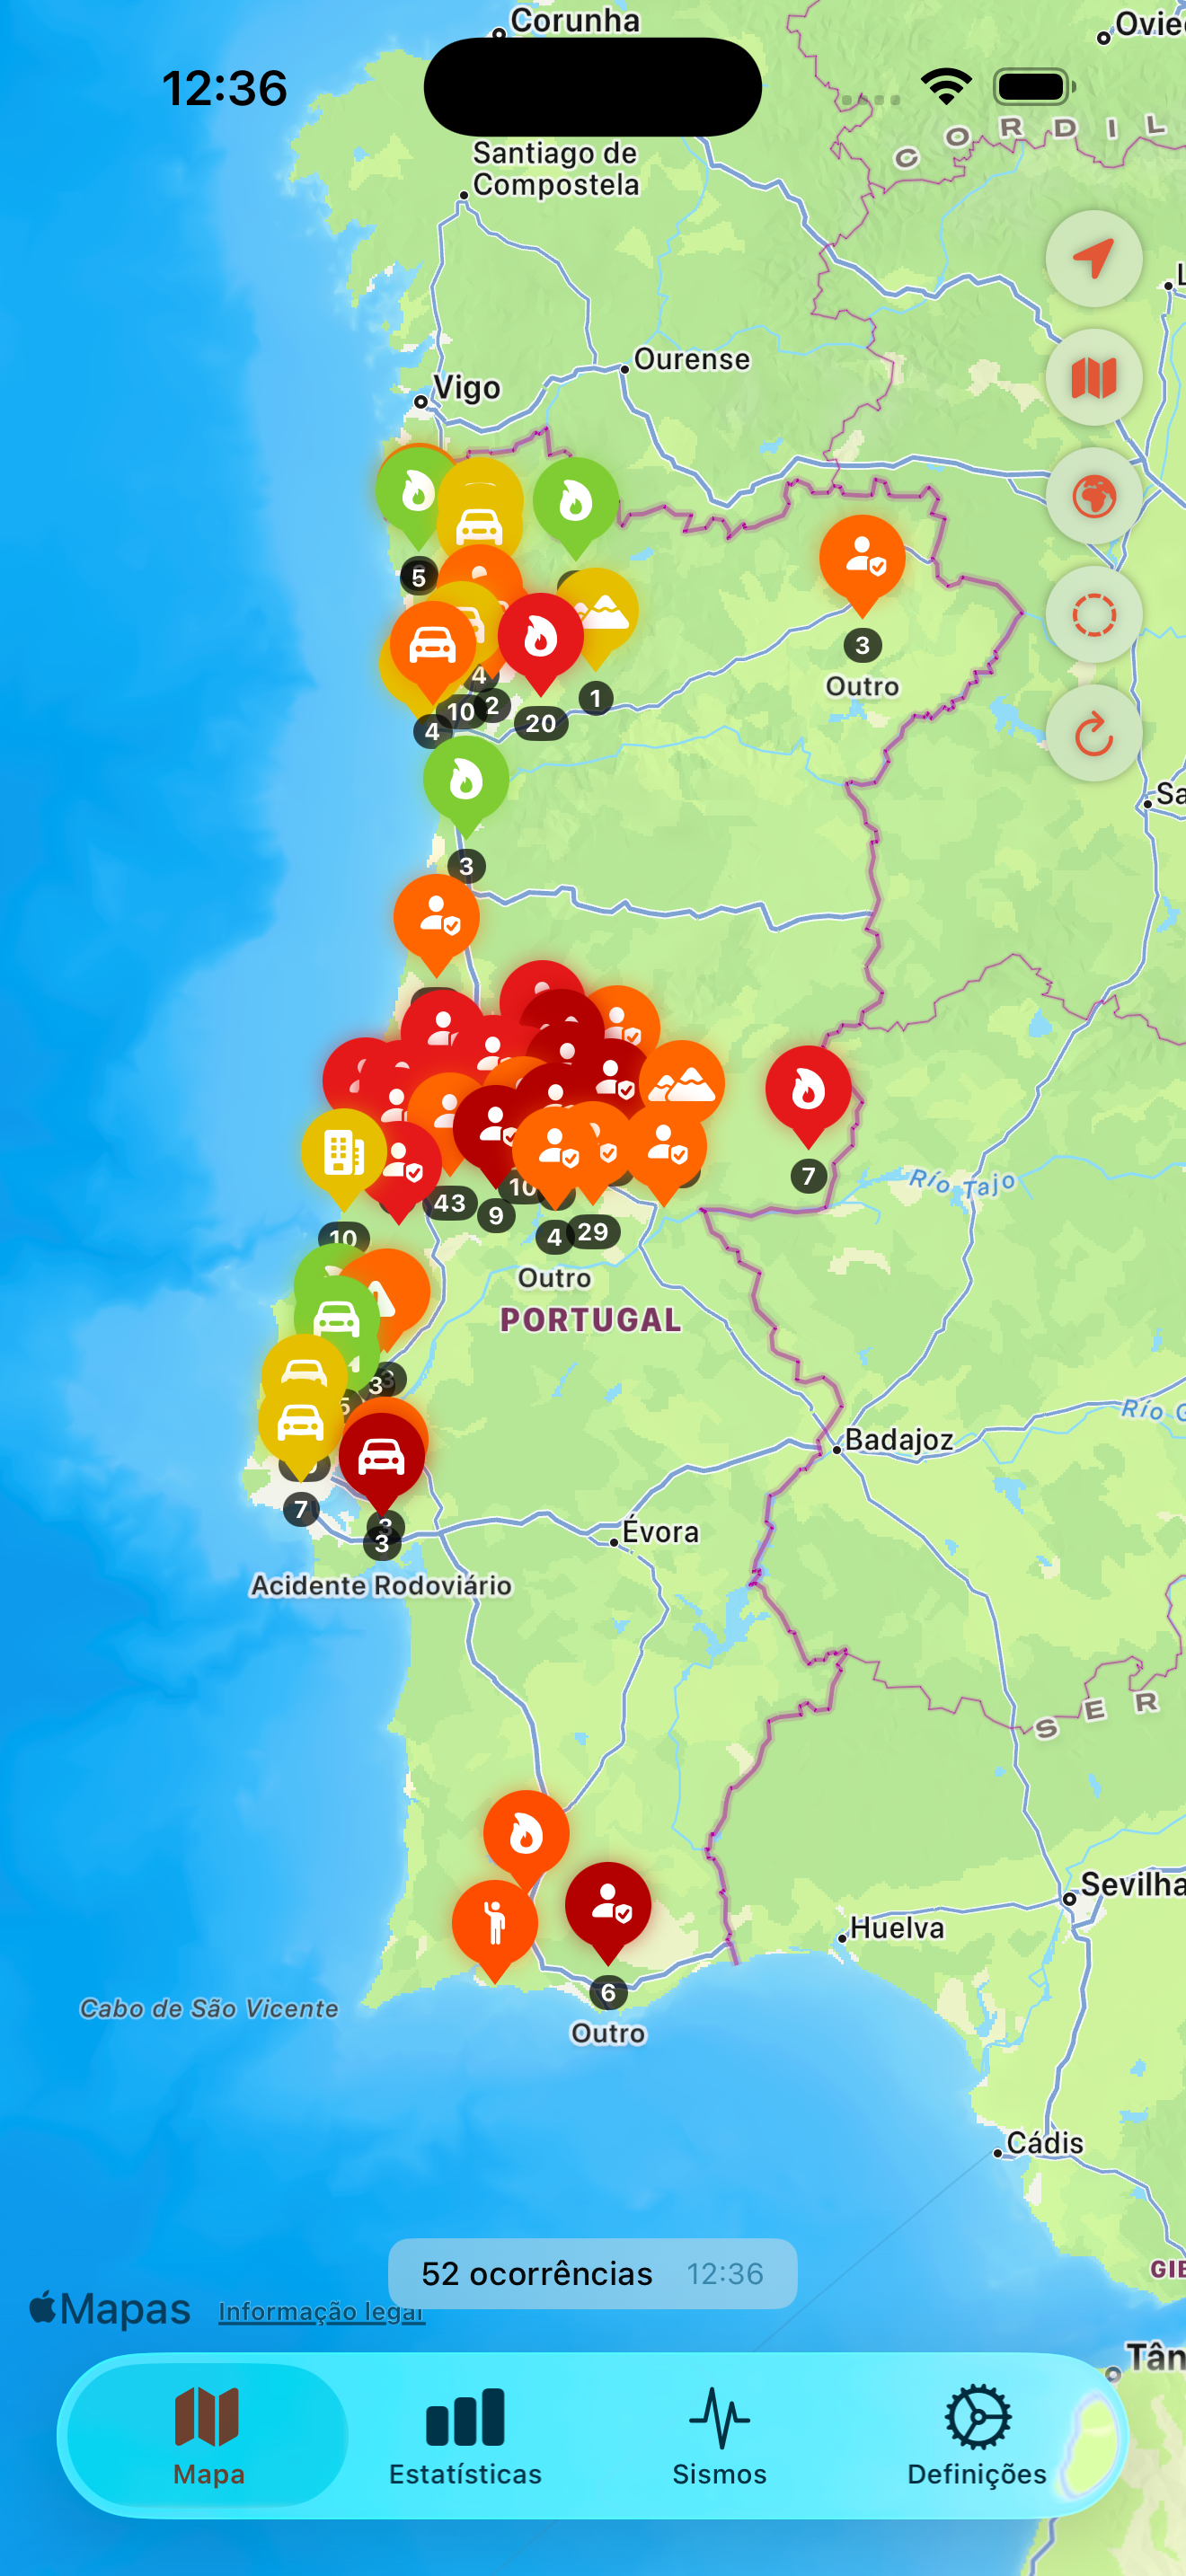
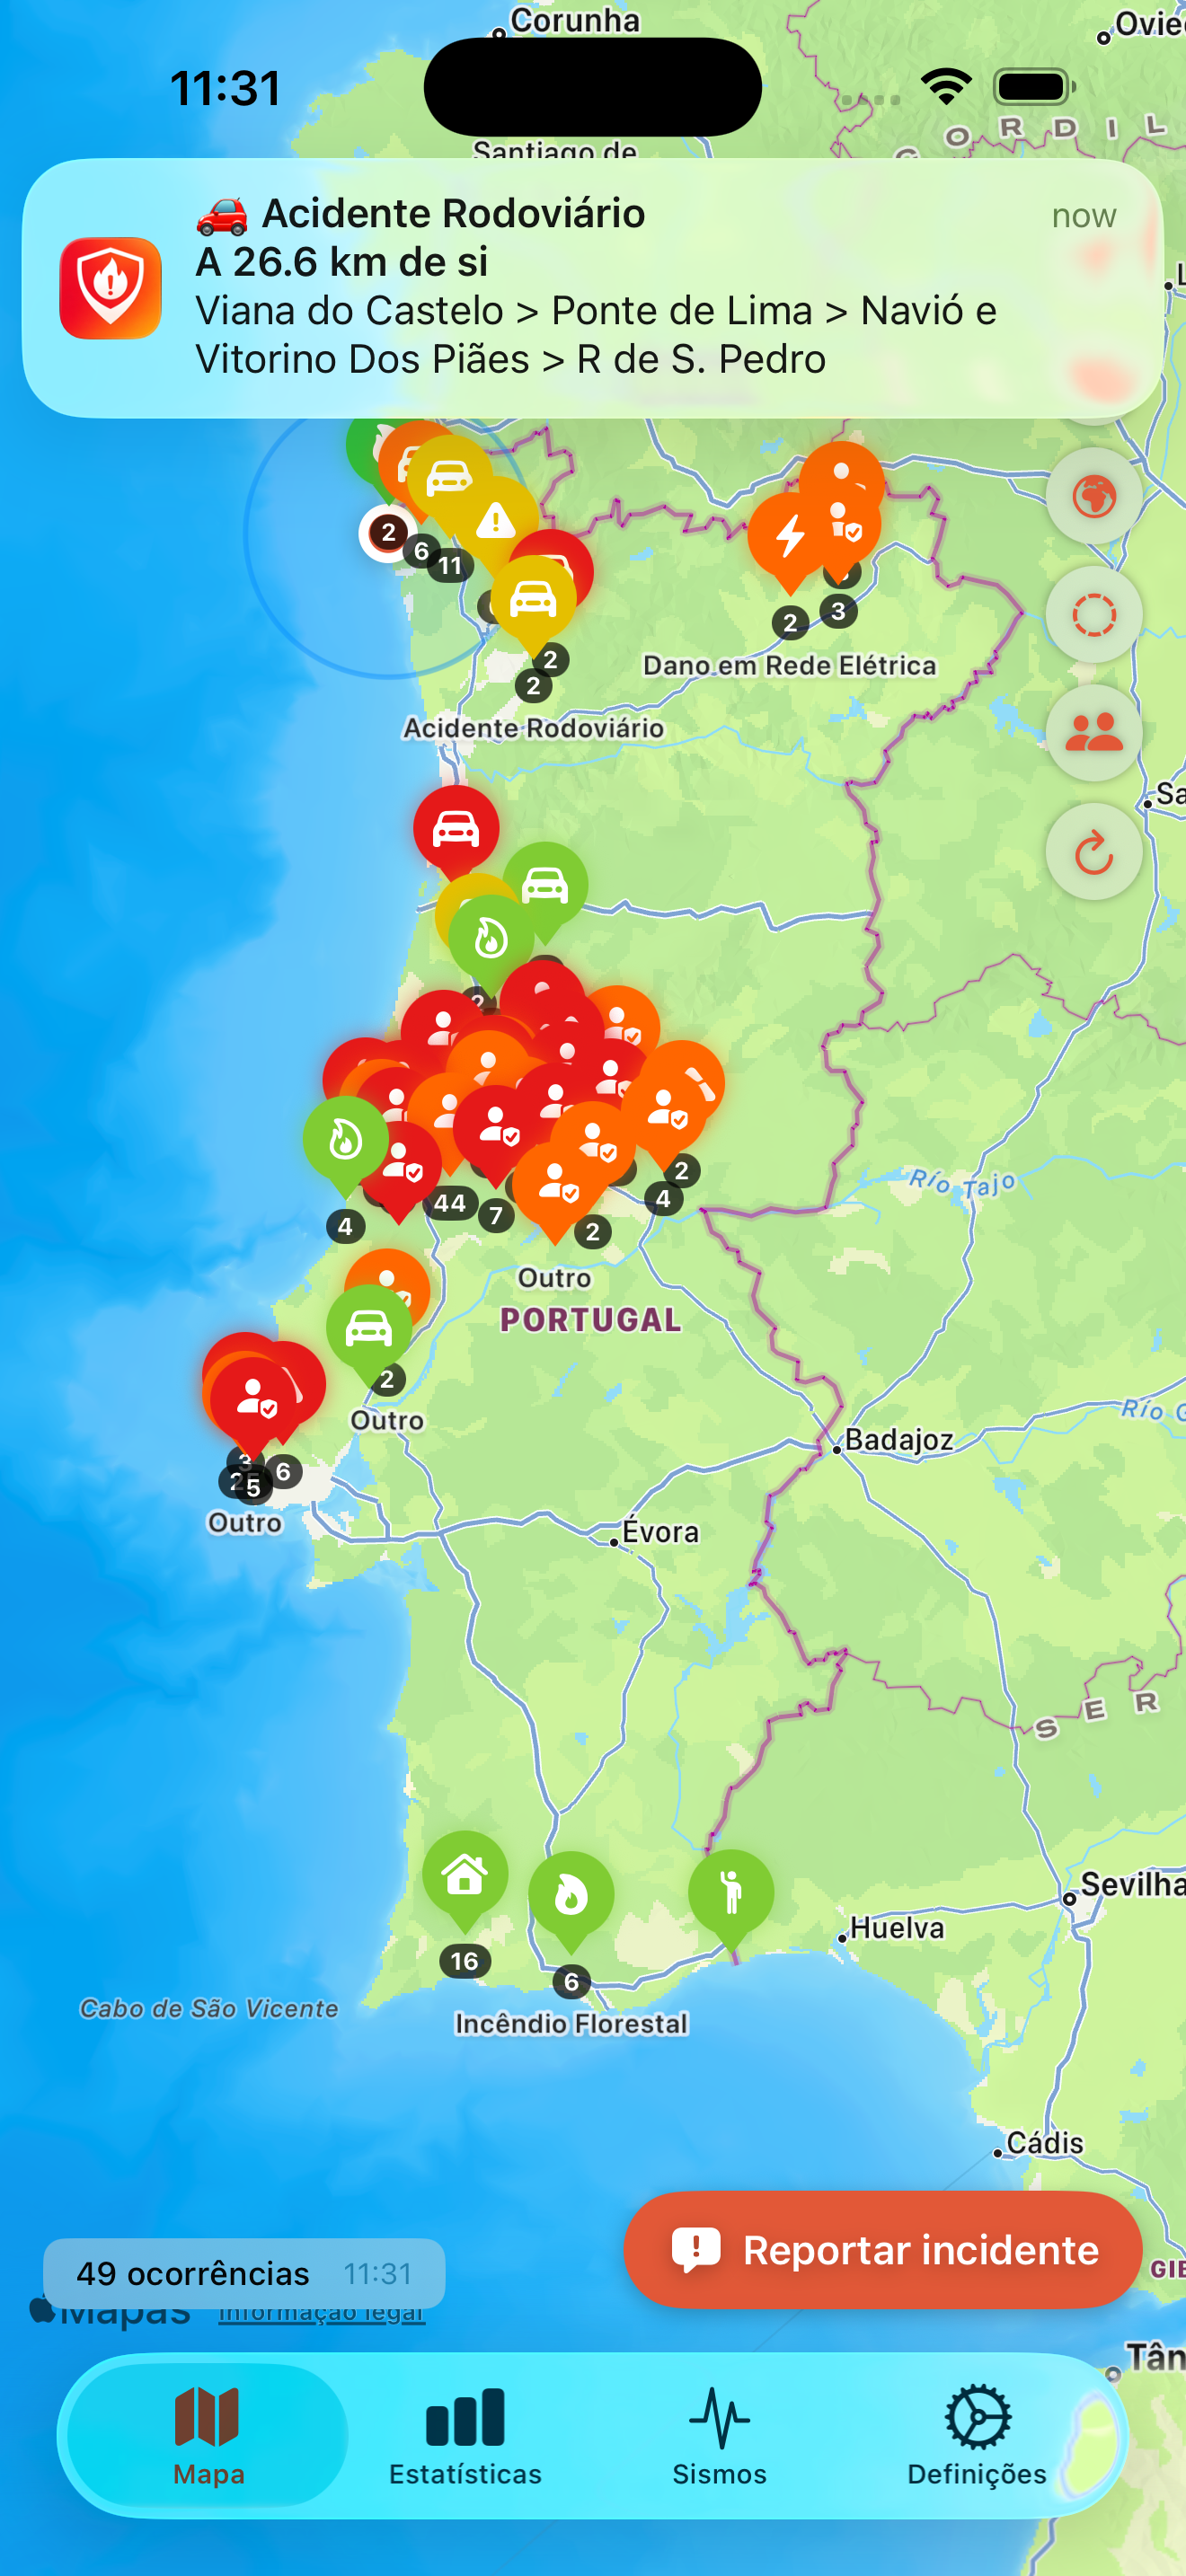
Alerta: add citizen-reports section + reputation feature to homepage

diff --git a/Alerta/index.html b/Alerta/index.html
@@ -4,8 +4,8 @@
     <meta charset="UTF-8">
     <meta name="viewport" content="width=device-width, initial-scale=1.0">
     <title>Alerta - Ocorrencias de Proteção Civil em Tempo Real</title>
-    <meta name="keywords" content="proteção civil, incêndios, acidentes, sismos, terramotos, IPMA, Portugal, alertas, emergência, bombeiros, ANEPC, fogos, iOS app, macOS app">
-    <meta name="description" content="Acompanhe ocorrências de proteção civil e sismos em Portugal em tempo real. Receba alertas quando surgem novos incidentes na sua área ou quando ocorrem sismos.">
+    <meta name="keywords" content="proteção civil, incêndios, acidentes, sismos, terramotos, IPMA, Portugal, alertas, emergência, bombeiros, ANEPC, fogos, reportes cidadãos, comunidade, iOS app, macOS app">
+    <meta name="description" content="Acompanhe ocorrências de proteção civil e sismos em Portugal em tempo real. Reporte incidentes na sua zona, receba alertas quando surgem novos eventos perto de si e ganhe níveis de reputação na comunidade.">
     <link rel="stylesheet" href="style.css">
     <link rel="icon" type="image/png" href="Alerta Banner Hero.png">
     <script data-goatcounter="https://portwally.goatcounter.com/count" async src="//gc.zgo.at/count.js"></script>
@@ -23,7 +23,7 @@
             <img src="Alerta Banner Hero.png" alt="Alerta App" class="hero-image">
             <h1>Alerta</h1>
             <p class="tagline">Proteção Civil em Tempo Real</p>
-            <p class="subtitle">Acompanhe ocorrências de proteção civil e sismos em Portugal em tempo real. Receba notificações instantâneas quando surgem novos incidentes na sua área ou quando ocorre um sismo. Veja estatísticas e meios mobilizados em todo o país.</p>
+            <p class="subtitle">Acompanhe ocorrências de proteção civil e sismos em Portugal em tempo real. Reporte incidentes na sua zona, receba notificações instantâneas e veja estatísticas e meios mobilizados em todo o país.</p>
             <a href="https://apps.apple.com/us/app/alerta/id6759662896" class="app-store-badge">
                 <img src="https://developer.apple.com/assets/elements/badges/download-on-the-app-store.svg" alt="Download on the App Store">
             </a>
@@ -33,7 +33,7 @@
     <main>
         <section class="screenshots">
             <h2>A app por dentro</h2>
-            <p class="screenshots-subtitle">Mapa em tempo real, estatísticas, sismos e alertas push — tudo num só lugar.</p>
+            <p class="screenshots-subtitle">Mapa em tempo real, reportes da comunidade, estatísticas, sismos e alertas push — tudo num só lugar.</p>
             <div class="screenshot-grid">
                 <figure class="screenshot">
                     <img src="screenshots/01-map.png" alt="Mapa interativo com todas as ocorrências ativas em Portugal" loading="lazy">
@@ -62,6 +62,22 @@
             </div>
         </section>
 
+        <section class="screenshots">
+            <h2>Reportes da Comunidade <span style="font-size: 0.6em; vertical-align: middle; background: #ff6b35; color: #fff; padding: 4px 10px; border-radius: 12px; margin-left: 8px;">Novidade</span></h2>
+            <p class="screenshots-subtitle">Viu uma árvore caída, uma falha de energia ou uma estrada cortada? Reporte em segundos e ajude a sua comunidade. Inicie sessão com Apple ou Google, escolha o tipo de incidente, anexe uma fotografia e o reporte aparece no mapa de toda a gente.</p>
+            <div class="screenshot-grid">
+                <figure class="screenshot screenshot-feature">
+                    <img src="screenshots/07-new-report.png" alt="Ecrã para criar um novo reporte com tipo de incidente, localização e fotografia" loading="lazy">
+                    <figcaption><strong>Reporte rápido:</strong> escolha entre 6 tipos de incidente — incêndio, inundação, acidente, falha de energia, deslizamento ou árvore caída — anexe uma foto e submeta. Os metadados EXIF são removidos automaticamente para proteger a sua privacidade.</figcaption>
+                </figure>
+                <figure class="screenshot screenshot-feature">
+                    <img src="screenshots/08-account-reports.png" alt="Ecrã da conta com nível de reputação Vigia L5 e lista de reportes submetidos" loading="lazy">
+                    <figcaption><strong>10 níveis de reputação:</strong> de Civil a Mítico, ganhe pontos por cada reporte verificado por um operador. Acompanhe o seu histórico, o estado de cada reporte (aberto, resolvido, oculto) e o seu progresso para o próximo nível.</figcaption>
+                </figure>
+            </div>
+            <p class="screenshots-subtitle" style="margin-top: 24px;">Pode reportar de forma anónima a qualquer momento, e os reportes são moderados por operadores para manter a fiabilidade. Reportes verificados sobem a sua confiança; reportes inválidos descem-na.</p>
+        </section>
+
         <section class="features">
             <h2>Funcionalidades</h2>
             <div class="feature-grid">
@@ -76,9 +92,19 @@
                     <p>Receba notificações quando surgem novas ocorrências perto de si. Configure o raio de alerta conforme as suas necessidades.</p>
                 </div>
                 <div class="feature feature-highlight">
+                    <div class="feature-icon">📣</div>
+                    <h3>Reportes da Comunidade</h3>
+                    <p>Reporte incidentes que vê na rua — árvores caídas, inundações, falhas de energia — com foto e localização. Inicie sessão com Apple ou Google, ou submeta de forma anónima.</p>
+                </div>
+                <div class="feature feature-highlight">
+                    <div class="feature-icon">🛡️</div>
+                    <h3>Sistema de Reputação</h3>
+                    <p>10 níveis ao estilo herói/guardião — de Civil a Mítico. Cada reporte verificado por um operador faz subir a sua confiança e desbloqueia novos distintivos.</p>
+                </div>
+                <div class="feature feature-highlight">
                     <div class="feature-icon">🌐</div>
                     <h3>Sismos em Tempo Real</h3>
-                    <p>Dados sísmicos oficiais do IPMA para Portugal Continental, Madeira e Açores. Mapa e histórico de 24h, 7 ou 30 dias, com alertas push acima da magnitude que definir.</p>
+                    <p>Dados sísmicos oficiais do IPMA para Portugal Continental, Madeira e Açores, complementados por dados mundiais do USGS. Mapa e histórico de 24h, 7 ou 30 dias, com alertas push acima da magnitude que definir.</p>
                 </div>
                 <div class="feature">
                     <div class="feature-icon">📊</div>
@@ -113,6 +139,14 @@
                 <div class="source">
                     <h3>IPMA — Instituto Português do Mar e da Atmosfera</h3>
                     <p>Dados sísmicos oficiais para Portugal Continental, Madeira e Açores, atualizados regularmente.</p>
+                </div>
+                <div class="source">
+                    <h3>USGS — United States Geological Survey</h3>
+                    <p>Cobertura sísmica mundial para complementar os dados do IPMA, permitindo alertas de sismos em qualquer ponto do globo.</p>
+                </div>
+                <div class="source">
+                    <h3>Reportes da Comunidade</h3>
+                    <p>Eventos do quotidiano reportados por utilizadores autenticados e moderados por operadores. Os utilizadores são identificados pelo seu nível de reputação para preservar a fiabilidade.</p>
                 </div>
             </div>
         </section>